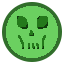
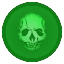
A few bug fixes + art
Skipping splash screen
Created new poison art for snake

diff --git a/Age of Anubis/Assets/Scripts/Managers/LoadNextSceneOnDelay.cs b/Age of Anubis/Assets/Scripts/Managers/LoadNextSceneOnDelay.cs
@@ -1,4 +1,4 @@
-using UnityEngine;
+using UnityEngine;
 using System.Collections;
 
 public class LoadNextSceneOnDelay : MonoBehaviour 
@@ -16,5 +16,10 @@ public class LoadNextSceneOnDelay : MonoBehaviour
 
 		if (m_timer > m_delayTime)
 			LoadingManager.Inst.LoadLevel(m_nextScene, m_showLoadingScreen);
+
+		if(Input.GetButtonDown("Submit") || Input.GetButtonDown("Fire1"))
+		{
+			LoadingManager.Inst.LoadLevel("StartScreen", false);
+		}
 	}
 }
